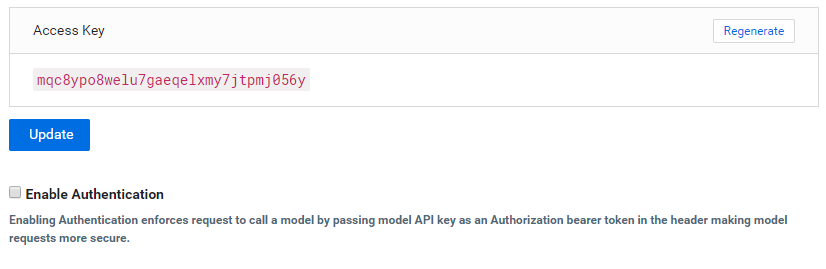
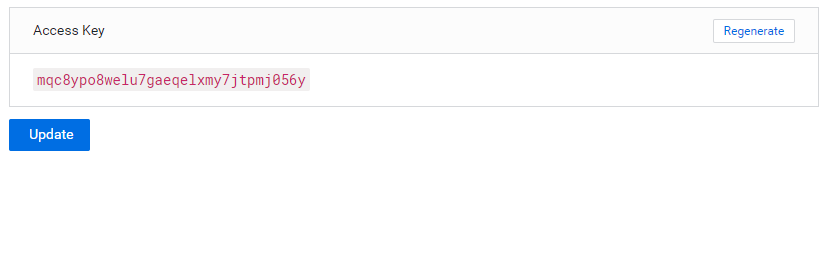
instructions update

Changed region(s): [[0.0, 0.803, 0.9685, 0.8327], [0.0, 0.684, 0.2119, 0.7435], [0.0, 0.8625, 0.1513, 0.9219]]

diff --git a/README.md b/README.md
@@ -128,7 +128,7 @@ of the files/notebooks so its worth looking into those. Follow the steps below a
 will end up with a running application.
 
 ### 1 Ingest Data
-This script will read in the data csv from the file uploaded to the s3 bucket setup 
+This script will read in the data csv from the file uploaded to the HDFS setup 
 during the bootstrap and create a managed table in Hive. This is all done using Spark.
 
 Open the file  `1_data_ingest.py` in a Workbench session: Python 3, 1vCPU/2GiB. Run all the lines.
@@ -149,8 +149,8 @@ This is also a Jupyter Notebook to show the process of selecting and building th
 to predict churn. It also shows more details on how the LIME model is created and a bit 
 more on what LIME is actually doing.
 
-Open a Jupyter Notebook session (rather than a work bench): python3, 1 CPU, 2 GB and 
-open the `	3_model_building.ipynb` file. 
+Open a Jupyter Notebook session (rather than a Workbench): python3, 1vCPU/2GiB and 
+open the `3_model_building.ipynb` file. 
 
 At the top of the page click **Cells > Run All**.
 
@@ -166,8 +166,8 @@ There are 2 other ways of running the model training process
 
 The **[Jobs](https://docs.cloudera.com/machine-learning/cloud/jobs-pipelines/topics/ml-creating-a-job.html)**
 feature allows for adhoc, recurring and depend jobs to run specific scripts. To run this model 
-training process as a job, create a new job by going to the Project window and clicking _Jobs >
-New Job_ and entering the following settings:
+training process as a job, create a new job by going to the Project window and clicking **Jobs >
+New Job** and entering the following settings:
 * **Name** : Train Mdoel
 * **Script** : 4_train_models.py
 * **Arguments** : _Leave blank_
@@ -179,7 +179,9 @@ run for that job.
 
 ***2. Experiments***
 
-The other option is running an **[Experiment](https://docs.cloudera.com/machine-learning/cloud/experiments/topics/ml-running-an-experiment.html)**. Experiments run immediately and are used for testing different parameters in a model training process. In this instance it would be use for hyperparameter optimisation. To run an experiment, from the Project window click Experiments > Run Experiment with the following settings.
+The other option is running an **[Experiment](https://docs.cloudera.com/machine-learning/cloud/experiments/topics/ml-running-an-experiment.html)**. 
+Experiments run immediately and are used for testing different parameters in a model training process. In this instance it would be use for hyperparameter 
+optimisation. To run an experiment, from the Project window click **Experiments > Run Experiment** with the following settings.
 * **Script** : 4_train_models.py
 * **Arguments** : 5 lbfgs 100 _(these the cv, solver and max_iter parameters to be passed to 
 LogisticRegressionCV() function)
@@ -235,9 +237,9 @@ from the model Model Overview page.
 
 _**Note: This is important**_
 
-Once the model is deployed, you must disable the additional model authentication feature. In the model settings page, untick **Enable Authentication**.
+Once the model is deployed, go to the _Settings_ tab inside the new deployed model and copy tbe _Access Key_.
 
-![disable_auth](images/disable_auth.png)
+![disable_auth](images/model_access_key_1.png)
 
 ### 6 Deploy Application
 The next step is to deploy the Flask application. The **[Applications](https://docs.cloudera.com/machine-learning/cloud/applications/topics/ml-applications.html)** feature is still quite new for CML. For this project it is used to deploy a web based application that interacts with the underlying model created in the previous step.
